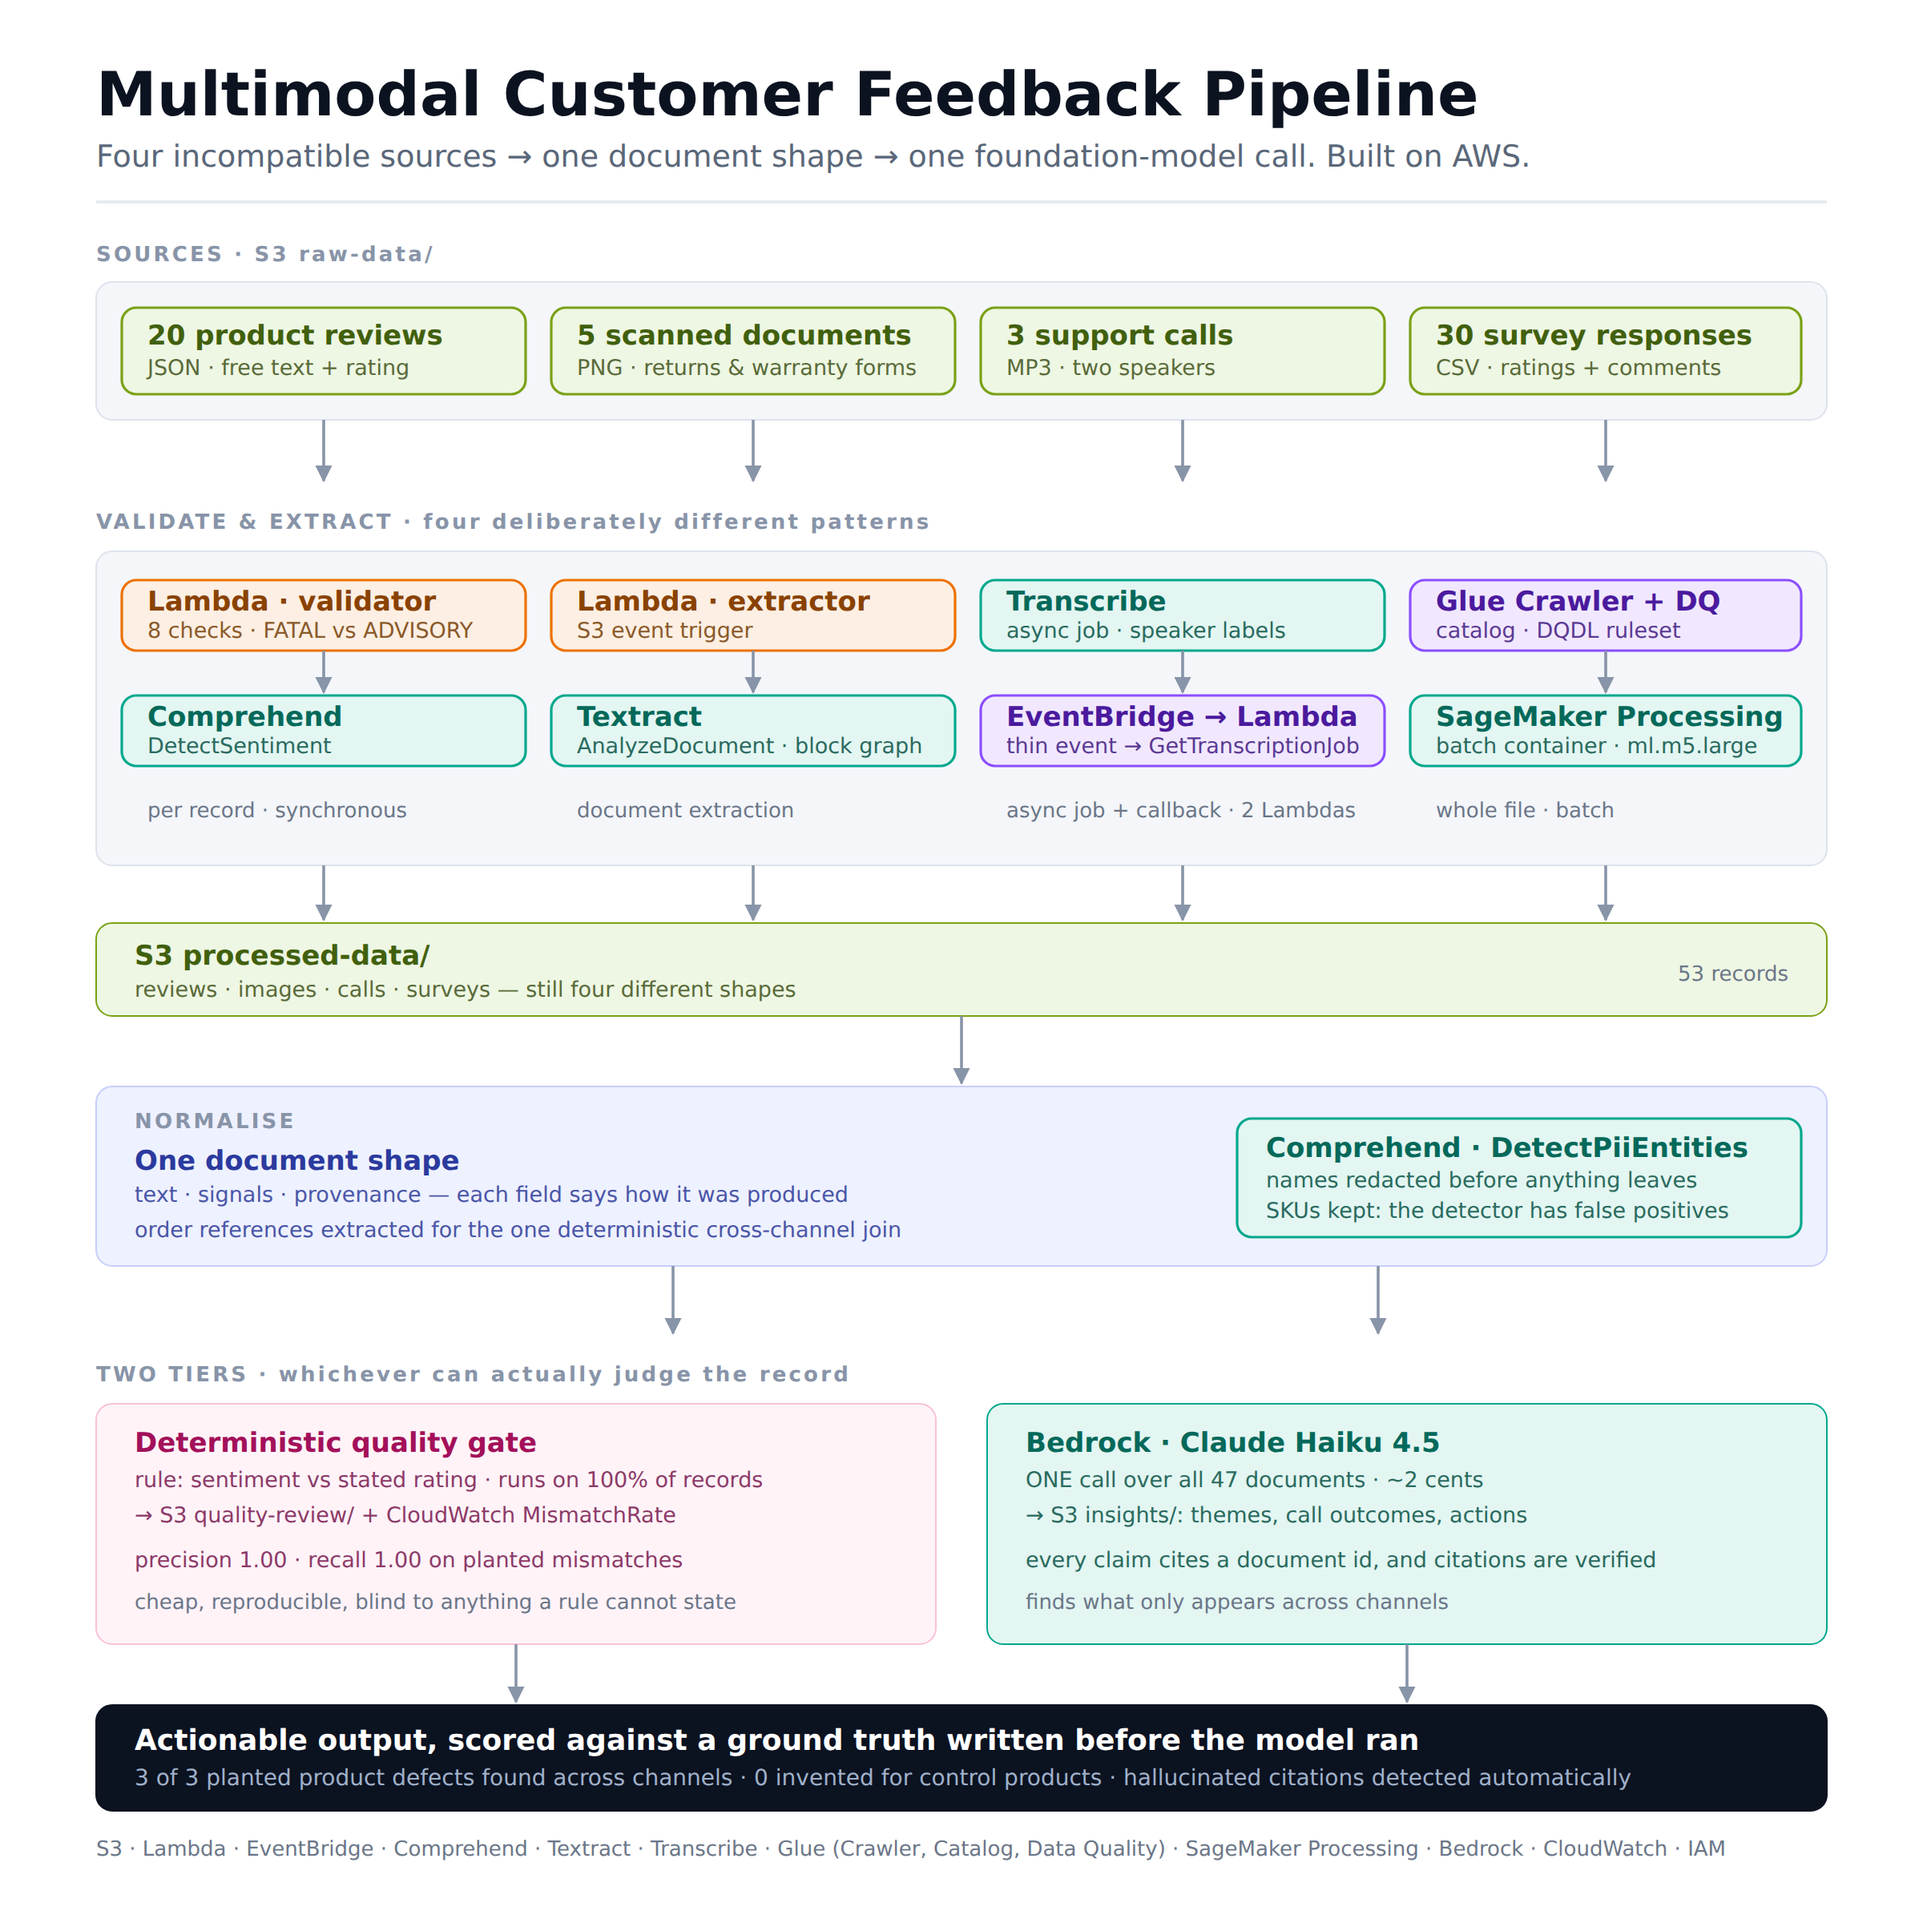
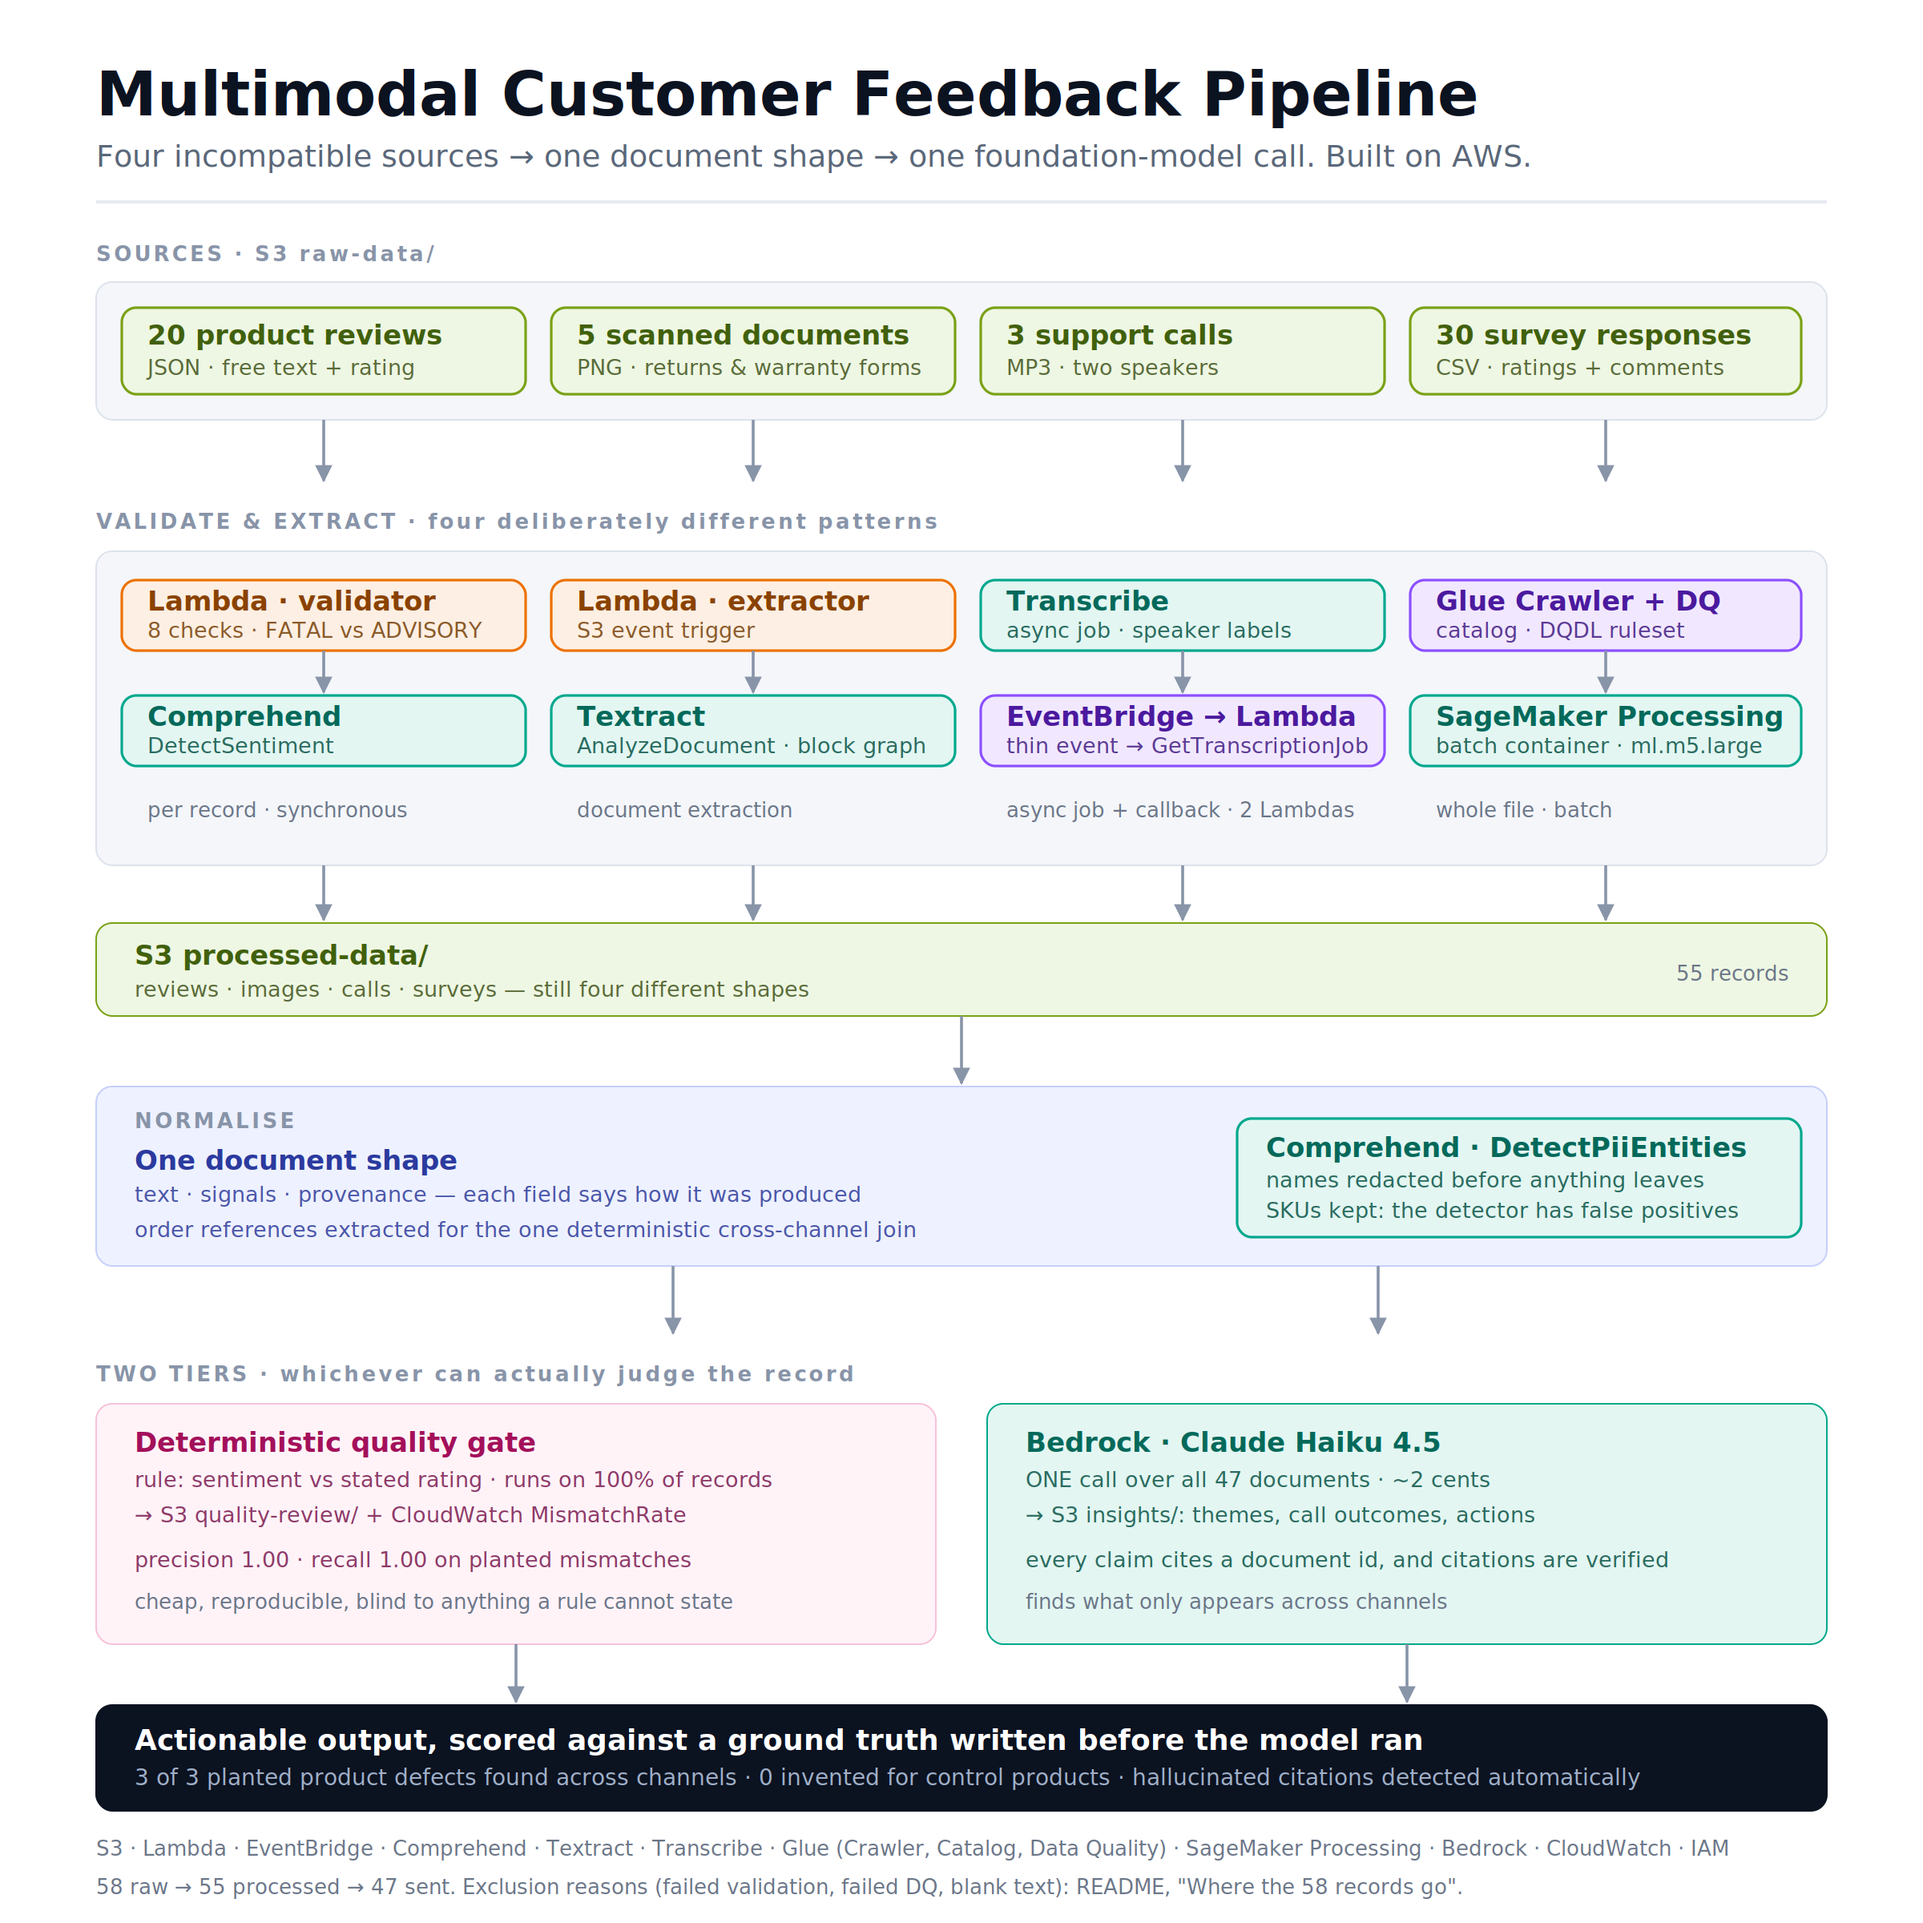
Update README and architecture diagram

diff --git a/README.md b/README.md
@@ -53,6 +53,22 @@ planted defect, two clean controls, five planted rating/sentiment mismatches
 named by document id. Both the model and the rule-based gate are scored against
 the same records.
 
+**Where the 58 records go**
+
+The dataset is 58 raw records (20 reviews + 5 scanned forms + 3 calls + 30
+survey rows). Not all of them reach Bedrock, and each drop is a logged
+decision, not data loss:
+
+| Stage | Count | What drops, and why |
+|---|---|---|
+| Raw sources | 58 | `raw-data/` |
+| Reaches `processed-data/` | 55 | 3 reviews fail a FATAL check in [`lambda/text_validator.py`](lambda/text_validator.py) and are never written: `review_003` (text is "Bad.", under the 10-character minimum), `review_007` (no `product_id` to attribute it to), `review_011` (`rating: 6`, out of the 1-5 range) |
+| Sent to Bedrock | 47 | 6 more excluded in `admissible_only()` ([`processing/feedback_document.py`](processing/feedback_document.py)): 2 survey rows fail a FATAL Glue DQ check (blank `customer_id`, blank `survey_date`); 4 more pass DQ (`comments_present` is only ADVISORY) but have an empty `comments` field, so there is no text for the model to read. The remaining 2 were not re-verified against a live run's S3 output. |
+
+`manifest()` records `documents_total`, `documents_sent` and `excluded`
+alongside every run, so this shrinkage is visible in the output itself, not
+just in this table.
+
 **Finding cross-channel issues (Claude Haiku 4.5, 47 documents, one call)**
 
 | Check | Result |
